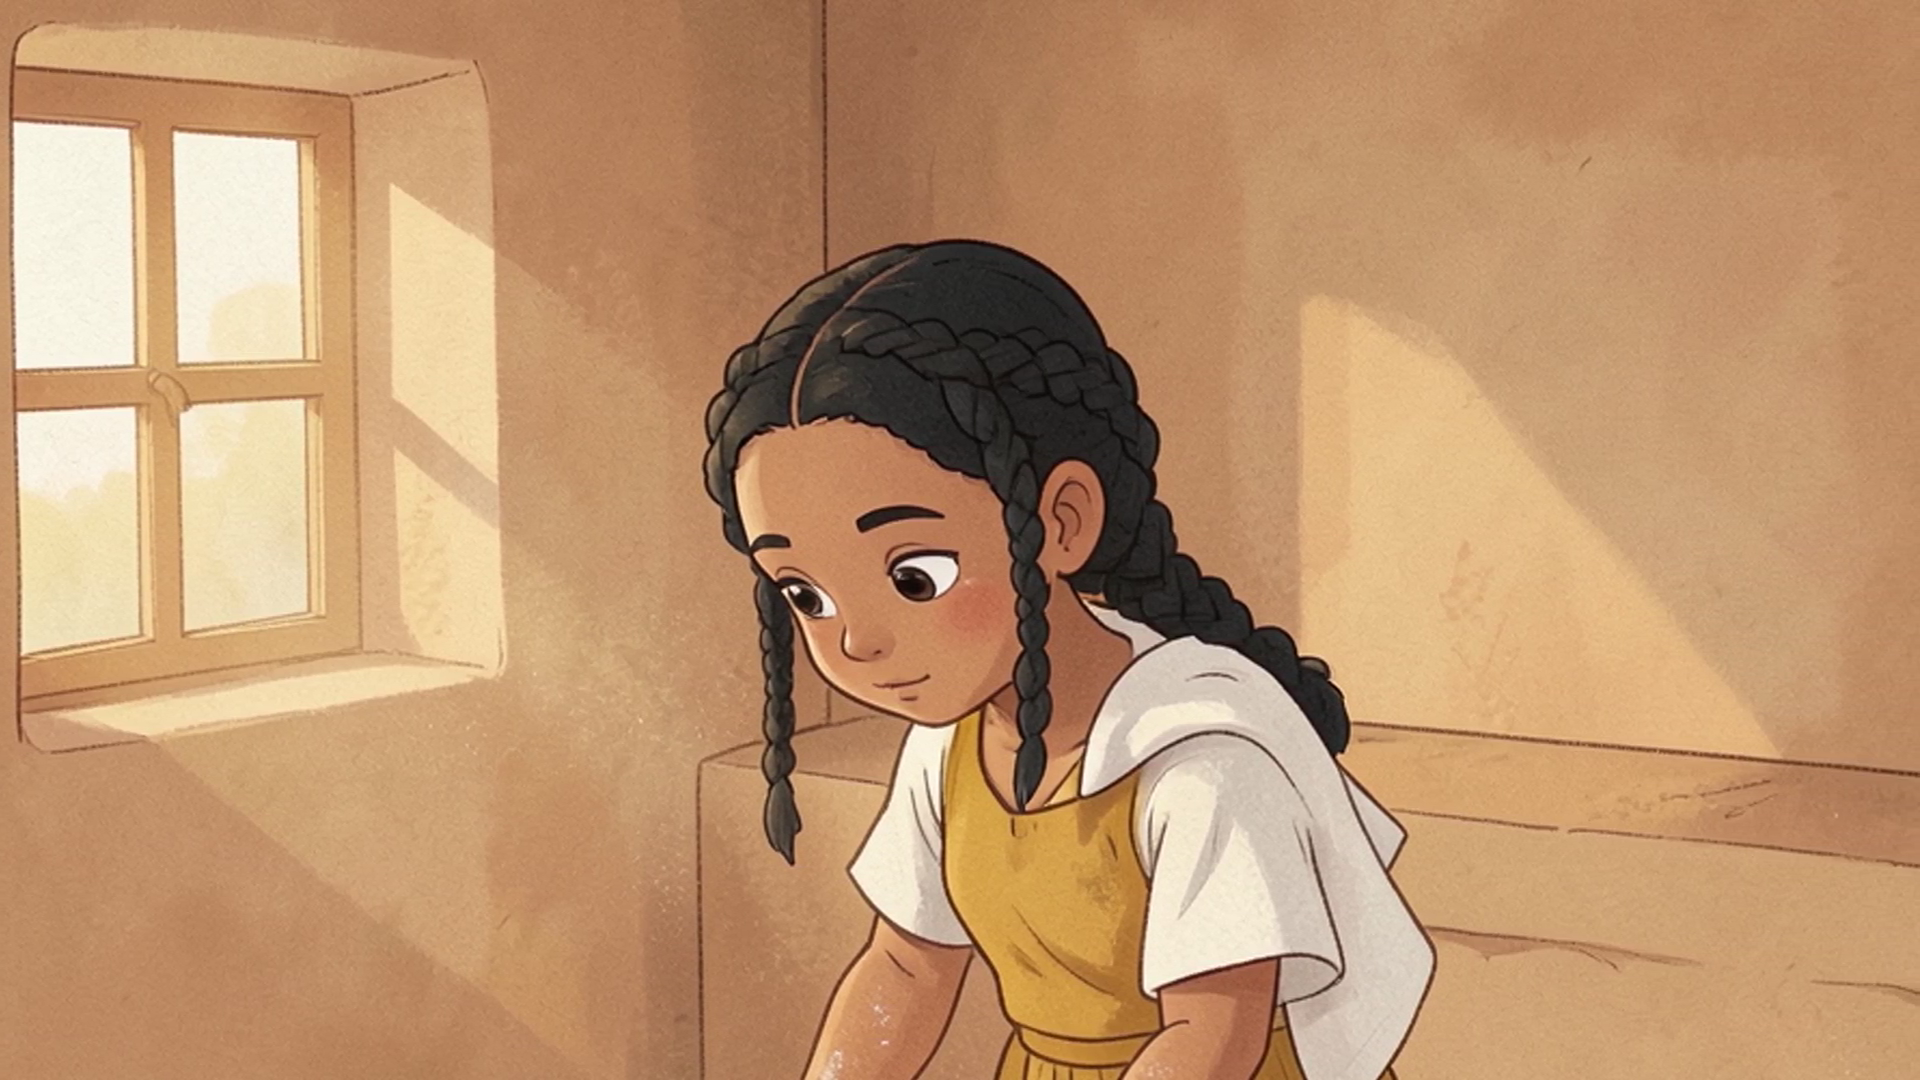
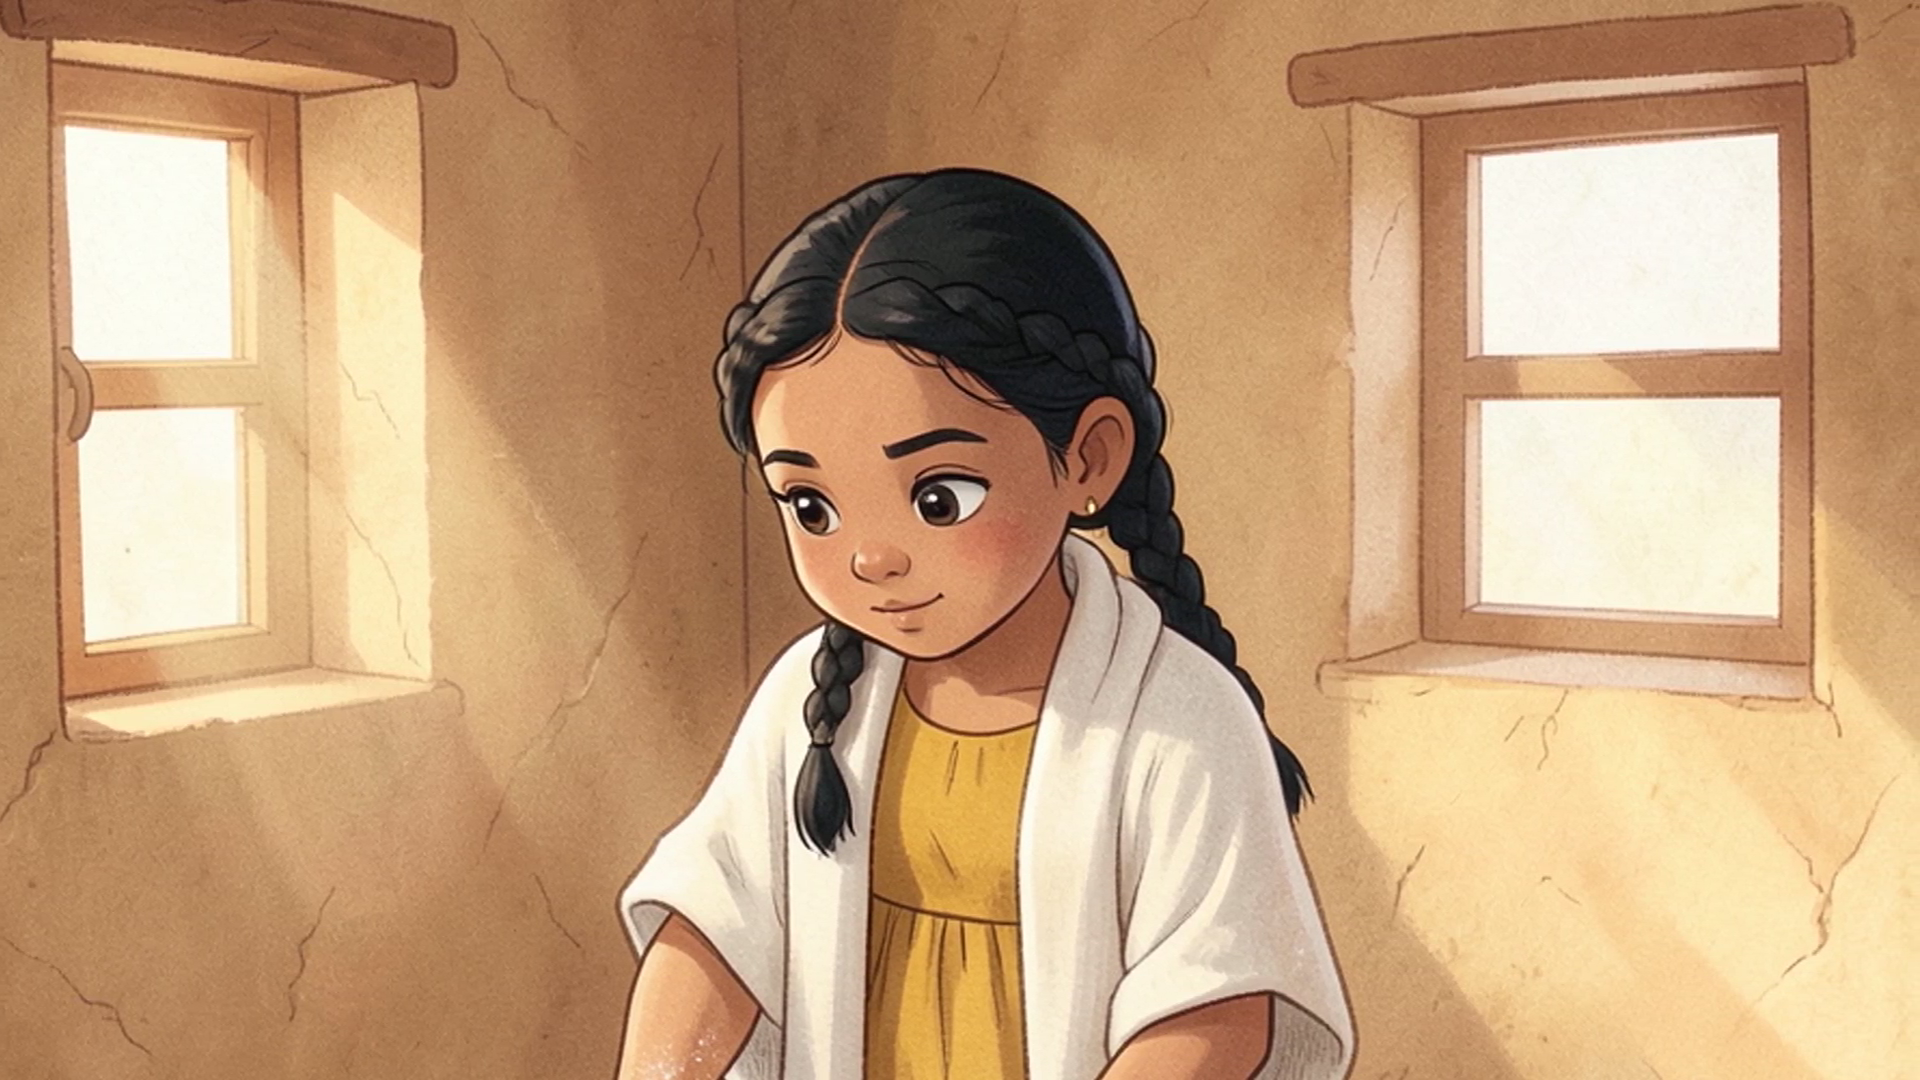
Test 2 (1 tester): record answers; regenerate injera keyframes (s02,s03,s06,s07,s08) with finer-hole prompt; retune s02 crop

diff --git a/DESIGN.md b/DESIGN.md
@@ -28,6 +28,20 @@
 - **What I did not change:** the story, the order of shots and the proverb itself. One tester is not enough to rewrite them.
 
 ## User test 2: near-final cut
-- Date / format / testers (3+): TODO
-- What they said: TODO
-- What I changed because of it: TODO
+- **Date / format:** 2026-11-26, the vertical MP4 (a few revisions before the final: it had the earlier 7-8 s shot timing and the original voice takes), same 8-9 questions as Test 1 plus picture, subtitle, music and cultural-fit questions. **Testers so far: 1 of the 3 required (Abdu, the same person who did Test 1); more answers to be added here.**
+- **What they said (Abdu, 28):**
+  1. About a mother teaching her daughter consistency through an Ethiopian proverb.
+  2. The moment that stayed: the daughter's delighted look when her persistence pays off; it matched the feeling of success after repeated failures.
+  3. Subtitles: "correct and perfectly displayed, it really helped".
+  4. Music: "just right and consistent throughout".
+  5. Believable and respectful? Yes, but "the injera doesn't resemble an actual injera".
+  6. Pace: "a little slow, which is tolerable because the sound is soothing".
+  7. Compared with the audio-only version: "this version is cleaner than the previous one".
+  8. Would share it: yes, "concise video with good story telling, trying to teach an important lesson in life".
+  9. OK to use his first name: yes.
+- **What worked:** the story landed from the pictures as well as the audio, the subtitles, the music level and the ending all passed, and the tester said this cut was cleaner than the audio-only one, which is some evidence that the Test 1 changes (shorter pauses, the "she said" tag) helped. Caveat: one tester, who had also done Test 1.
+- **What I changed because of it:**
+  1. **The injera.** The generated injera had a few large round holes, like a cheese or a pancake, not the dense fine pinholes of real injera. I rewrote the keyframe prompt of the five shots where it appears (s02, s03, s06, s07, s08) to ask for "hundreds of tiny pinhole eyes in a fine honeycomb texture, not a few large holes". Only those five keyframes were regenerated (the other four stayed cached); the new injera has many more, smaller holes but is still not perfect. The new images also redrew the girl a little in those shots, and the crop focus of s02 was retuned (0.3 to 0.2) to keep her head in frame.
+  2. **Pace.** Not changed further: the tester found it tolerable and soothing, and the film is already shortened to 61 s.
+- **Not done:** the version he watched was older than the current one, so his answers do not cover the final s09 "she said" voice take or the crop changes.
+
